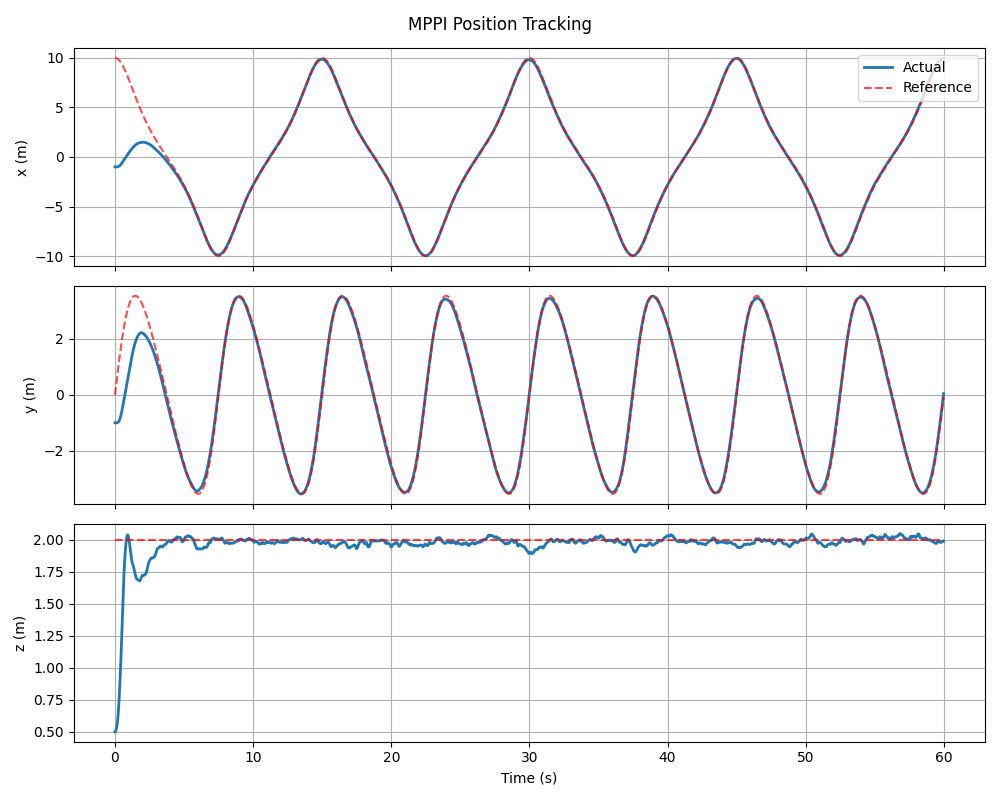
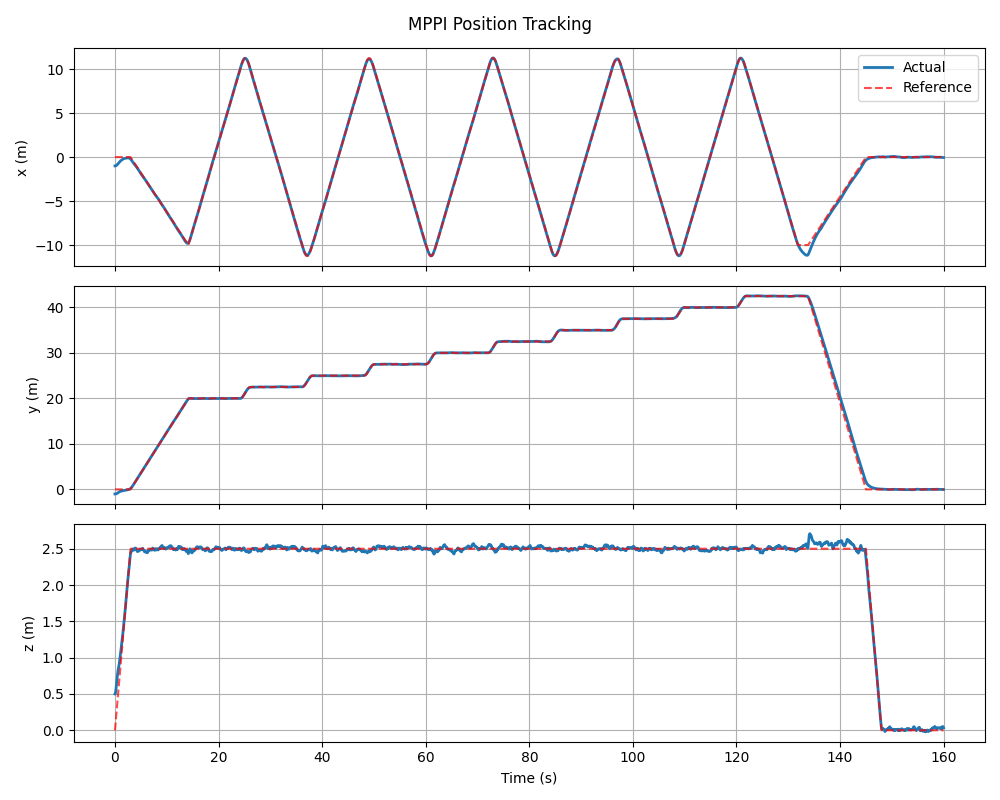
Created simulation_mppi_serpentine.py

diff --git a/src/uav_control_py/simulation_mppi_serpentine.py b/src/uav_control_py/simulation_mppi_serpentine.py
@@ -1,0 +1,363 @@
+#!/usr/bin/env python3
+"""
+simulation_mppi.py
+Main entry point. Runs MPPI simulation and calls the visualization module.
+"""
+
+import argparse
+import logging
+import os
+import sys
+import time
+from pathlib import Path
+
+# Set JAX environment variables BEFORE importing JAX
+os.environ["JAX_TRACEBACK_FILTERING"] = "off"
+
+# Suppress JAX warnings about missing TPU/GPU
+logging.getLogger("jax._src.xla_bridge").setLevel(logging.ERROR)
+
+import jax
+import jax.numpy as jnp
+import matplotlib.pyplot as plt
+import numpy as np
+
+jax.config.update("jax_debug_nans", True)
+
+# Add current directory to path for imports
+sys.path.insert(0, str(Path(__file__).parent.resolve()))
+
+# Local Imports
+from uav_control_py.config.config_loader import load_mppi_config
+from uav_control_py.controller.mppi.mppi_rate import MPPIRateController
+from uav_control_py.controller.mppi.quad_dynamics import dynamics_rk4
+from visualization.plotter import MPPIVisualizer
+
+
+def generate_mission_reference(
+    t,
+    home=np.array([0.0, 0.0, 0.0]),
+    first_row=np.array([-10.0, 20.0]),
+    altitude=2.5,
+    row_length=20.0,
+    row_spacing=2.5,
+    num_rows=10,
+    v_ref=2.0,
+    T_takeoff=3.0,
+    T_landing=3.0,
+):
+    """
+    Missione UAV con serpentina:
+    - 1 filare = tratto rettilineo + 1 turn
+    - direzione determinata dalla parità del filare
+    """
+
+    # =========================
+    # PRE-COMPUTAZIONI
+    # =========================
+    R = row_spacing / 2.0
+
+    T_row = row_length / v_ref
+    T_turn = np.pi * R / v_ref
+    T_cycle = T_row + T_turn
+
+    T_serpentine = num_rows * T_cycle
+
+    T_to_vineyard = np.linalg.norm(first_row - home[:2]) / v_ref
+    T_return = T_to_vineyard
+
+    t1 = T_takeoff
+    t2 = t1 + T_to_vineyard
+    t3 = t2 + T_serpentine
+    t4 = t3 + T_return
+    t5 = t4 + T_landing
+
+    # =========================
+    # 1) TAKEOFF
+    # =========================
+    if t < t1:
+        z = home[2] + altitude * (t / T_takeoff)
+        return np.array([home[0], home[1], z,
+                         0.0, 0.0, altitude / T_takeoff,
+                         1, 0, 0, 0, 0, 0, 0], dtype=np.float32)
+
+    # =========================
+    # 2) TRANSITO AL VIGNETO
+    # =========================
+    elif t < t2:
+        tau = (t - t1) / T_to_vineyard
+        pos = home[:2] + tau * (first_row - home[:2])
+        vel = v_ref * (first_row - home[:2]) / np.linalg.norm(first_row - home[:2])
+
+        return np.array([pos[0], pos[1], altitude,
+                         vel[0], vel[1], 0.0,
+                         1, 0, 0, 0, 0, 0, 0], dtype=np.float32)
+
+    # =========================
+    # 3) SERPENTINA
+    # =========================
+    elif t < t3:
+        ts = t - t2
+
+        row_idx = int(ts // T_cycle)
+        row_idx = min(row_idx, num_rows - 1)
+
+        tau = ts - row_idx * T_cycle
+
+        y_row = first_row[1] + row_idx * row_spacing
+        direction = 1 if row_idx % 2 == 0 else -1
+
+        # ---- RETTILINEO ----
+        if tau < T_row:
+            s = v_ref * tau
+
+            if direction == 1:
+                x = first_row[0] + s
+                vx = v_ref
+            else:
+                x = first_row[0] + row_length - s
+                vx = -v_ref
+
+            y = y_row
+            vy = 0.0
+
+        # ---- TURN (verso filare successivo) ----
+        else:
+            if row_idx == num_rows - 1:
+                # ultimo filare
+                s = row_length
+                if direction == 1:
+                    x = first_row[0] + s
+                    vx = v_ref
+                else:
+                    x = first_row[0]
+                    vx = -v_ref
+
+                y = y_row
+                vy = 0.0
+            else:
+                t_turn = tau - T_row
+                theta = np.pi * t_turn / T_turn
+
+                if direction == 1:
+                    x_c = first_row[0] + row_length
+                else:
+                    x_c = first_row[0]
+
+                y_c = y_row + R
+
+                x = x_c + direction * R * np.sin(theta)
+                y = y_c - R * np.cos(theta)
+
+                vx = direction * v_ref * np.cos(theta)
+                vy = v_ref * np.sin(theta)
+
+        return np.array([x, y, altitude,
+                         vx, vy, 0.0,
+                         1, 0, 0, 0, 0, 0, 0], dtype=np.float32)
+
+    # =========================
+    # 4) RITORNO A HOME
+    # =========================
+    elif t < t4:
+
+        tau = (t - t3) / T_return
+        tau = np.clip(tau, 0.0, 1.0)
+
+        # ultima posizione serpentina
+        last_row = num_rows - 1
+        last_y = first_row[1] + last_row * row_spacing
+        direction = 1 if last_row % 2 == 0 else -1
+
+        if direction == 1:
+            last_x = first_row[0] + row_length
+        else:
+            last_x = first_row[0]
+
+        start = np.array([last_x, last_y])
+        end   = home[:2]
+
+        pos = start + tau * (end - start)
+        dir_vec = end - start
+        dir_vec /= np.linalg.norm(dir_vec)
+
+        vel = v_ref * dir_vec
+
+        return np.array([
+            pos[0], pos[1], altitude,
+            vel[0], vel[1], 0.0,
+            1, 0, 0, 0, 0, 0, 0
+        ], dtype=np.float32)
+
+
+    # =========================
+    # 5) LANDING (discesa verticale su HOME)
+    # =========================
+    elif t < t5:
+
+        tau = (t - t4) / T_landing
+        tau = np.clip(tau, 0.0, 1.0)
+
+        z = altitude * (1 - tau)
+
+        return np.array([
+            home[0], home[1], z,
+            0.0, 0.0, -altitude / T_landing,
+            1, 0, 0, 0, 0, 0, 0
+        ], dtype=np.float32)
+
+    # =========================
+    # FINE MISSIONE
+    # =========================
+    else:
+        return np.array([home[0], home[1], home[2],
+                        0.0, 0.0, 0.0,
+                        1, 0, 0, 0, 0, 0, 0], dtype=np.float32)
+    
+
+def run_simulation():
+    # 1. Setup
+    print("Initializing MPPI Controller...")
+    try:
+        config = load_mppi_config()
+        controller = MPPIRateController(config)
+    except (FileNotFoundError, KeyError) as e:
+        print("\n--- CONFIGURATION ERROR ---")
+        print(f"Failed to load or parse 'mppi_config.yaml': {e}")
+        print("Please ensure the file exists and all required parameters are set.")
+        print("---------------------------\n")
+        sys.exit(1)
+
+    # Simulation settings
+    T_sim = 160.0
+    dt_sim = 0.02
+    steps = int(T_sim / dt_sim)
+
+    # Initial Condition
+    current_state = np.array(
+        [-1.0, -1.0, 0.5, 0.0, 0.0, 0.0, 1.0, 0.0, 0.0, 0.0, 0.0, 0.0, 0.0],
+        dtype=np.float32,
+    )
+
+    # Logging
+    history = {"state": [], "ref": [], "control": [], "time": [], "cost": []}
+
+    # 2. Main Loop
+    print(f"Starting Simulation ({T_sim}s)...")
+    start_time = time.time()
+
+    for k in range(steps):
+        t = k * dt_sim
+
+        # Generate Horizon Reference (N x 13)
+        ref_horizon = []
+        for i in range(config["horizon"]):
+            ref_horizon.append(generate_mission_reference(t + i * dt_sim))
+        ref_horizon = np.array(ref_horizon)
+
+        # Get Control
+        control, _, min_cost = controller.get_control(current_state, ref_horizon)
+
+        # Update Physics (Simulate one step)
+        # Convert to JAX for dynamics function
+        state_jax = jnp.array(current_state)
+        ctrl_jax = jnp.array(control)
+        next_state_jax = dynamics_rk4(
+            state_jax,
+            ctrl_jax,
+            dt_sim,
+            controller.mass,
+            controller.g,
+            controller.tau,
+            controller.inertia_inv,
+        )
+
+        current_state = np.array(next_state_jax)
+
+        # Store Data
+        history["state"].append(current_state)
+        history["ref"].append(ref_horizon[0])
+        history["control"].append(control)
+        history["time"].append(t)
+        history["cost"].append(min_cost)
+
+        if k % 20 == 0:
+            print(f"Step {k}/{steps} | Time: {t:.2f}s | Cost: {min_cost:.2f}")
+
+    print(f"Simulation Complete. Total Time: {time.time() - start_time:.2f}s")
+
+    # Convert to numpy arrays for plotting
+    for key in history:
+        history[key] = np.array(history[key])
+
+    return history
+
+
+if __name__ == "__main__":
+    parser = argparse.ArgumentParser(
+        description="Run MPPI simulation and visualization."
+    )
+    # Master switch
+    parser.add_argument("--no-vis", action="store_true", help="Skip all visualization.")
+
+    # General plot options
+    parser.add_argument(
+        "--show-plots",
+        action="store_true",
+        help="Show plots interactively (blocks execution).",
+    )
+    parser.add_argument(
+        "--no-save", action="store_true", help="Disable saving plots and animations."
+    )
+
+    # Granular plot control
+    parser.add_argument(
+        "--no-history",
+        action="store_true",
+        help="Disable the 2D position tracking plot.",
+    )
+    parser.add_argument(
+        "--no-3d", action="store_true", help="Disable the static 3D trajectory plot."
+    )
+    parser.add_argument(
+        "--plot-control",
+        action="store_true",
+        help="Enable the control inputs plot (off by default).",
+    )
+    parser.add_argument(
+        "--make-animation",
+        action="store_true",
+        help="Generate and save a 3D animation (off by default).",
+    )
+
+    args = parser.parse_args()
+
+    # Run Simulation
+    sim_data = run_simulation()
+
+    # Run Visualization
+    if not args.no_vis:
+        print("\nStarting Visualization...")
+        vis = MPPIVisualizer()
+
+        save_enabled = not args.no_save
+        show_enabled = args.show_plots
+
+        # 1. Plot static graphs (position is on by default)
+        if not args.no_history:
+            vis.plot_history(
+                sim_data, save=save_enabled, plot_control=args.plot_control
+            )
+
+        # 2. Plot 3D trajectory (on by default)
+        if not args.no_3d:
+            vis.plot_3d_trajectory(sim_data, save=save_enabled)
+
+        # 3. Create Animation (off by default)
+        if args.make_animation:
+            vis.make_animation(sim_data, save=save_enabled)
+
+        # Show all generated plots if enabled
+        if show_enabled:
+            print("[Visualizer] Showing plots...")
+            plt.show()
